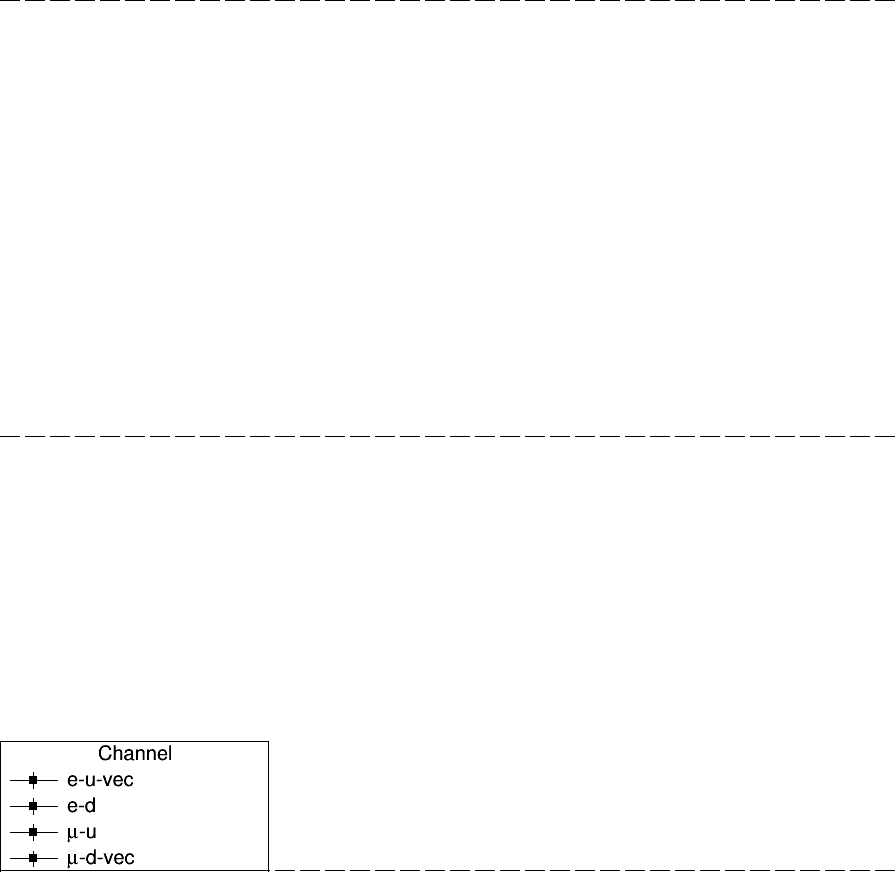
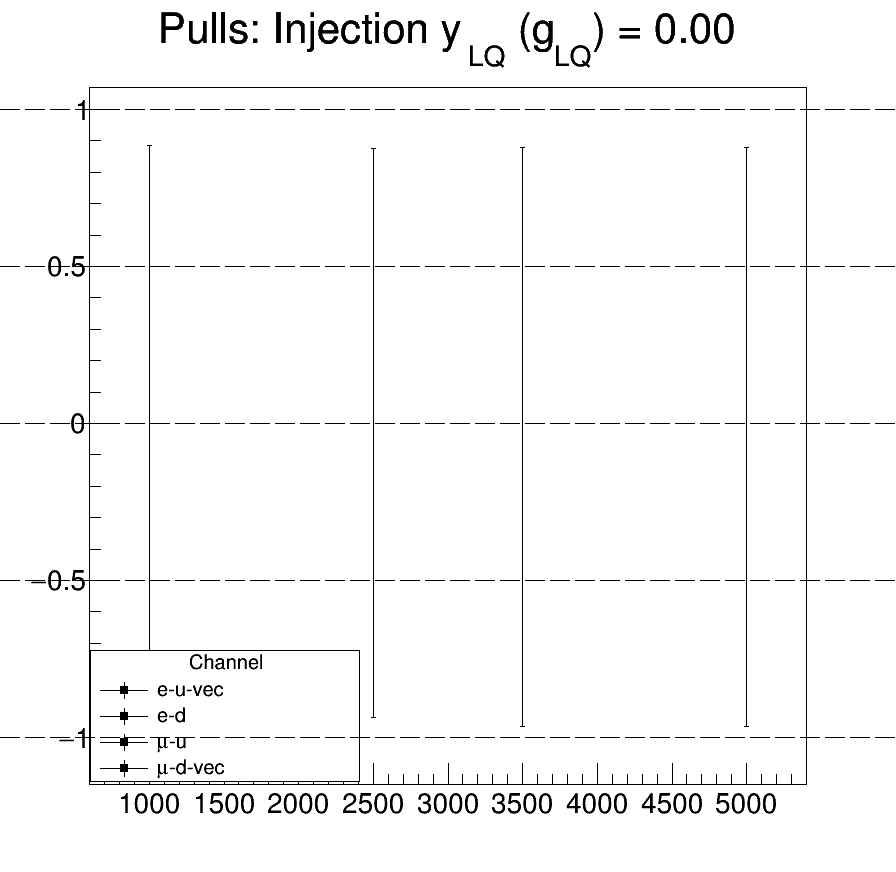
bias test summary plot

diff --git a/analyze/combine/AFB_fits/scripts/LQ_do_bias_test.py b/analyze/combine/AFB_fits/scripts/LQ_do_bias_test.py
@@ -276,7 +276,7 @@ else:
 	    gr.SetName('gr')
 	    leg.AddEntry('gr', chan_label+"-"+options.q+"%s"%("-vec" if is_vec else ""), 'lep')
 	    gr.Draw("AP same")
-	    del gr
+	    #del gr
 
     leg.Draw("same")
     l1.Draw("same")
